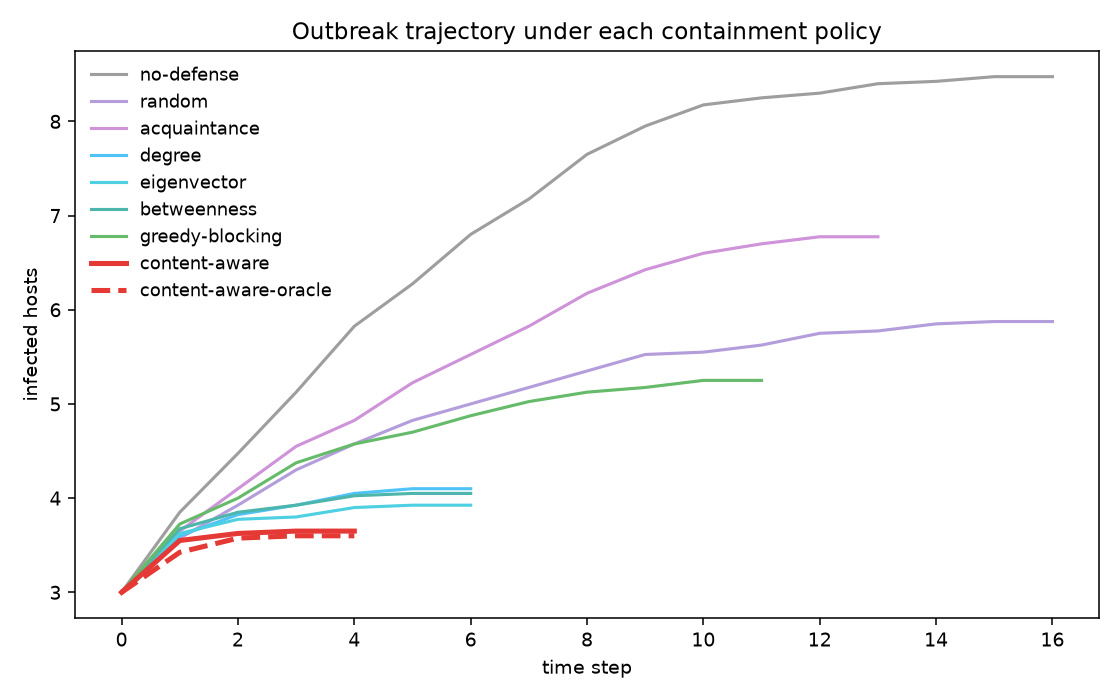
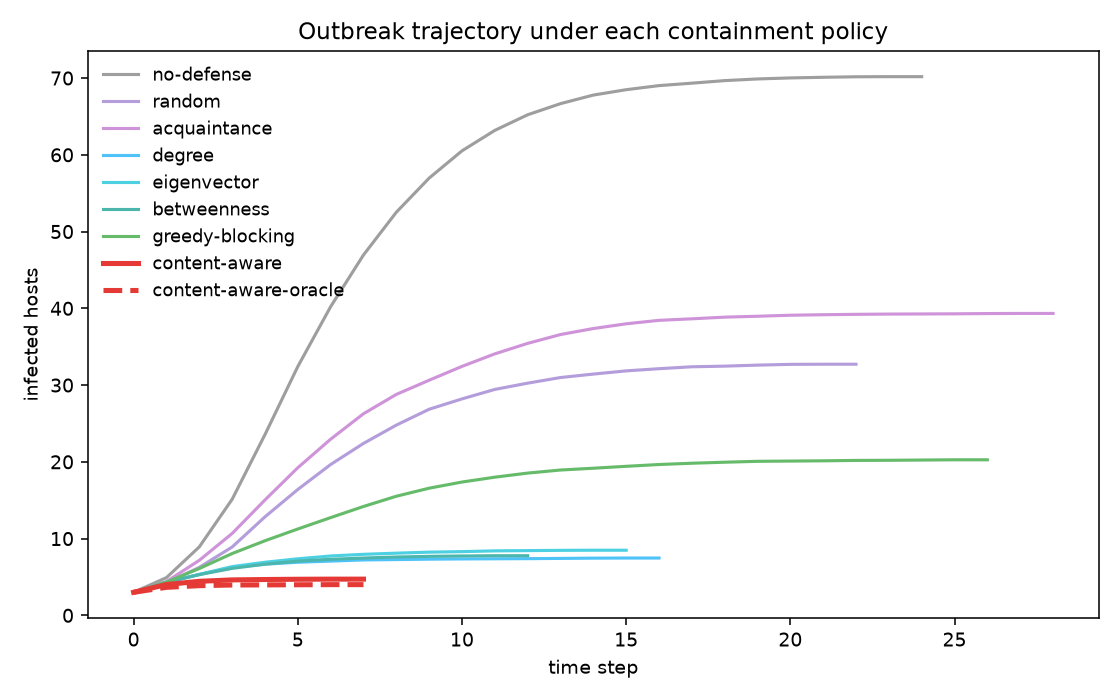
Topology-correlated vulnerability (software monoculture in zones)
Add segment-correlated software assignment: carve the graph into connected
zones (multi-source BFS Voronoi = subnets/VLANs), give each zone a shared
software image, and blend segment vs global software by a `homophily` knob.
A CVE now induces a *connected* vulnerable subgraph -- and the vulnerable zone
need not coincide with the topological hubs, which is exactly where content-
awareness beats structure-only immunization.

Wire homophily/n_segments through generate_real_network, TrialSpec, build_episode.
Fix run_experiment defaults for real data: --strategy band (was stealth), plus
--n-cves/--homophily/--band flags (real defaults: n_cves=40, homophily=0.4).

Real-data result (60 paired outbreaks, real modern CVEs):
- content-aware 0.9% infected vs best fixed baseline (degree) 1.5%:
  -18.6% infection, Wilcoxon p=1.1e-5; availability 98.7% vs 96.9%.
- vs the per-trial ensemble oracle: -6.1%, p=0.006 -- beats even the oracle on
  real data (which it could NOT on synthetic), because real software zones
  diverge from topological centrality.

Tests: segments are connected; homophily raises within-zone software sharing.
15/15 pass.

diff --git a/serum/data/profiles.py b/serum/data/profiles.py
@@ -16,7 +16,7 @@ handle exposing per-CVE ids and betas.
 
 from __future__ import annotations
 
-from collections import Counter
+from collections import Counter, deque
 from dataclasses import dataclass, field
 
 import networkx as nx
@@ -98,31 +98,88 @@ def build_universe(
     )
 
 
+def graph_segments(g: nx.Graph, n_segments: int,
+                   rng: np.random.Generator) -> dict:
+    """Partition the graph into ``n_segments`` *connected* regions via
+    multi-source BFS (a graph Voronoi tessellation from random centres).
+
+    Segments model network zones -- subnets, VLANs, OU/imaging groups -- within
+    which hosts tend to run the same software. Because each region is connected,
+    a shared-software vulnerability induces a connected vulnerable subgraph, so
+    a worm can actually traverse it (the realism the independent model lacked)."""
+    nodes = list(g.nodes())
+    k = max(1, min(n_segments, len(nodes)))
+    centers = [int(x) for x in rng.choice(nodes, size=k, replace=False)]
+    seg: dict = {}
+    dq: deque = deque()
+    for i, c in enumerate(centers):
+        seg[c] = i
+        dq.append(c)
+    while dq:  # simultaneous BFS: nearest centre claims each node
+        u = dq.popleft()
+        for v in g.neighbors(u):
+            if v not in seg:
+                seg[v] = seg[u]
+                dq.append(v)
+    for v in nodes:  # any node in a disconnected fragment: assign at random
+        if v not in seg:
+            seg[v] = int(rng.integers(k))
+    return seg
+
+
 def attach_real_profiles(
     g: nx.Graph,
     universe: RealVulnUniverse,
     products_lambda: float = 6.0,
+    n_segments: int = 12,
+    homophily: float = 0.75,
     rng: np.random.Generator | None = None,
 ) -> nx.Graph:
-    """Assign each host a real-data-derived vulnerability profile in place."""
+    """Assign each host a real-data-derived vulnerability profile in place.
+
+    ``homophily`` in [0, 1] controls software monoculture: a fraction
+    ``homophily`` of a host's products is drawn from its segment's shared
+    software image, the rest sampled independently by global popularity.
+    ``homophily=0`` recovers the fully-independent assignment (an ablation)."""
     rng = rng or np.random.default_rng()
     prod_index = {p: i for i, p in enumerate(universe.products)}
-    # precompute, per CVE, the set of product indices it affects
     cve_prod_idx = [frozenset(prod_index[p] for p in cps) for cps in universe.cve_products]
-
     n_products = len(universe.products)
+
+    seg = graph_segments(g, n_segments, rng)
+    # each segment's shared "software image": a popularity-weighted product set
+    image_size = int(min(n_products, max(products_lambda * 3, products_lambda + 4)))
+    seg_image: dict = {}
+    for s in set(seg.values()):
+        img = rng.choice(n_products, size=image_size, replace=False, p=universe.weights)
+        seg_image[s] = np.asarray(img)
+
     for node in g.nodes():
         k = int(min(n_products, max(1, rng.poisson(products_lambda))))
-        chosen = rng.choice(n_products, size=k, replace=False, p=universe.weights)
-        host_products = frozenset(int(c) for c in chosen)
-        vuln = frozenset(
-            i for i, cpi in enumerate(cve_prod_idx) if host_products & cpi
-        )
+        n_seg = int(round(homophily * k))
+        n_glob = k - n_seg
+        prods: set = set()
+        if n_seg > 0:
+            img = seg_image[seg[node]]
+            take = min(n_seg, len(img))
+            prods.update(int(x) for x in rng.choice(img, size=take, replace=False))
+        # top up (segment image exhausted or the independent remainder)
+        while len(prods) < k:
+            p = int(rng.choice(n_products, p=universe.weights)) if n_glob or not prods \
+                else int(rng.choice(seg_image[seg[node]]))
+            prods.add(p)
+            if len(prods) >= n_products:
+                break
+        host_products = frozenset(prods)
+        vuln = frozenset(i for i, cpi in enumerate(cve_prod_idx) if host_products & cpi)
         g.nodes[node]["vuln"] = vuln
         g.nodes[node]["products"] = host_products
+        g.nodes[node]["segment"] = seg[node]
 
     g.graph["n_cves"] = universe.n_cves
     g.graph["vuln_universe"] = universe
+    g.graph["n_segments"] = len(set(seg.values()))
+    g.graph["homophily"] = homophily
     g.graph["data_source"] = "nvd"
     return g
 
@@ -135,12 +192,16 @@ def generate_real_network(
     n_products: int = 80,
     n_cves: int = 40,
     products_lambda: float = 6.0,
+    n_segments: int = 12,
+    homophily: float = 0.75,
     rng: np.random.Generator | None = None,
 ) -> nx.Graph:
-    """Build a topology and attach NVD-derived vulnerability profiles."""
+    """Build a topology and attach NVD-derived vulnerability profiles with
+    segment-correlated software (monoculture within network zones)."""
     rng = rng or np.random.default_rng()
     g = _base_topology(n, topology, m, rng)
     universe = build_universe(records, n_products=n_products, n_cves=n_cves, rng=rng)
-    attach_real_profiles(g, universe, products_lambda=products_lambda, rng=rng)
+    attach_real_profiles(g, universe, products_lambda=products_lambda,
+                         n_segments=n_segments, homophily=homophily, rng=rng)
     g.graph["topology"] = topology
     return g

diff --git a/tests/test_data.py b/tests/test_data.py
@@ -94,11 +94,42 @@ def test_build_universe_and_profiles_are_valid():
     assert uni.n_cves <= 15
     assert uni.beta.min() >= 0.05 and uni.beta.max() <= 0.5
     g = _base_topology(200, "ba", 3, np.random.default_rng(1))
-    attach_real_profiles(g, uni, rng=np.random.default_rng(2))
+    attach_real_profiles(g, uni, n_segments=8, homophily=0.5, rng=np.random.default_rng(2))
     assert g.graph["n_cves"] == uni.n_cves
-    assert all("vuln" in d for _, d in g.nodes(data=True))
+    assert all("vuln" in d and "segment" in d for _, d in g.nodes(data=True))
     prev = cve_prevalence(g)
     assert prev.min() >= 0.0 and prev.max() <= 1.0
+
+
+def test_segments_are_connected_regions():
+    """Each graph segment must be a connected subgraph (a real network zone)."""
+    import networkx as nx
+    from serum.data.profiles import graph_segments
+    g = _base_topology(300, "ba", 3, np.random.default_rng(4))
+    seg = graph_segments(g, 10, np.random.default_rng(5))
+    assert set(seg) == set(g.nodes())
+    for s in set(seg.values()):
+        members = [n for n, sg in seg.items() if sg == s]
+        assert nx.is_connected(g.subgraph(members)), f"segment {s} not connected"
+
+
+def test_homophily_raises_within_segment_software_sharing():
+    """Higher homophily => neighbours in the same segment share more products."""
+    records = _corpus(80)
+    uni = build_universe(records, n_products=30, n_cves=20, rng=np.random.default_rng(0))
+
+    def mean_shared(hom):
+        g = _base_topology(300, "ba", 3, np.random.default_rng(1))
+        attach_real_profiles(g, uni, n_segments=10, homophily=hom,
+                             rng=np.random.default_rng(2))
+        vals = []
+        for u, v in g.edges():
+            if g.nodes[u]["segment"] == g.nodes[v]["segment"]:
+                a, b = g.nodes[u]["products"], g.nodes[v]["products"]
+                vals.append(len(a & b) / max(1, len(a | b)))
+        return np.mean(vals) if vals else 0.0
+
+    assert mean_shared(0.9) > mean_shared(0.0)
 
 
 def test_generate_real_network_end_to_end():

diff --git a/scripts/run_experiment.py b/scripts/run_experiment.py
@@ -32,7 +32,8 @@ def parse_args():
     p.add_argument("--trials", type=int, default=30)
     p.add_argument("--n", type=int, default=500, help="hosts per network")
     p.add_argument("--topology", default="ba", choices=["ba", "ws", "er", "rgg"])
-    p.add_argument("--strategy", default="stealth", choices=["popular", "stealth", "random"])
+    p.add_argument("--strategy", default="band",
+                   choices=["band", "popular", "stealth", "random"])
     p.add_argument("--beta", type=float, default=0.35)
     p.add_argument("--budget", type=int, default=5)
     p.add_argument("--horizon", type=int, default=40)
@@ -41,6 +42,12 @@ def parse_args():
     p.add_argument("--no-plot", action="store_true")
     p.add_argument("--real", action="store_true",
                    help="use real NVD data (data/clean/cves.csv) instead of synthetic")
+    p.add_argument("--n-cves", type=int, default=-1,
+                   help="CVE universe size (default 40 for --real, 12 synthetic)")
+    p.add_argument("--homophily", type=float, default=-1.0,
+                   help="real-data software monoculture within a zone (default 0.4)")
+    p.add_argument("--band", type=float, nargs=2, default=None,
+                   help="prevalence band lo hi for the target CVE")
     return p.parse_args()
 
 
@@ -117,6 +124,9 @@ def main():
         payload_strategy=args.strategy,
         budget_per_step=args.budget,
         horizon=args.horizon,
+        n_cves=args.n_cves if args.n_cves > 0 else (40 if args.real else 12),
+        homophily=args.homophily if args.homophily >= 0 else 0.4,
+        prev_band=tuple(args.band) if args.band else (0.15, 0.55),
     )
     records = None
     if args.real:

diff --git a/serum/experiments/harness.py b/serum/experiments/harness.py
@@ -44,6 +44,8 @@ class TrialSpec:
     budget_per_step: int = 5
     horizon: int = 40
     n_products: int = 80          # real-data: software-universe size
+    n_segments: int = 12          # real-data: network zones (subnets/VLANs)
+    homophily: float = 0.5        # real-data: software monoculture within a zone
 
 
 def build_episode(spec: TrialSpec, seed: int, records=None):
@@ -60,7 +62,8 @@ def build_episode(spec: TrialSpec, seed: int, records=None):
         from serum.data.profiles import generate_real_network
         g = generate_real_network(
             records, n=spec.n, topology=spec.topology, m=spec.m,
-            n_cves=spec.n_cves, n_products=spec.n_products, rng=gen_rng,
+            n_cves=spec.n_cves, n_products=spec.n_products,
+            n_segments=spec.n_segments, homophily=spec.homophily, rng=gen_rng,
         )
     else:
         g = generate_network(

diff --git a/README.md b/README.md
@@ -82,11 +82,25 @@ python scripts/run_experiment.py --trials 40 --real   # run on real-data network
 - `serum/data/profiles.py` — real CPE-product co-deployment → correlated host
   vulnerabilities; per-CVE transmissibility from CVSS.
 
-**An honest finding this surfaced:** with *independent* software assignment, a
-CVE's vulnerable hosts scatter across the topology, the vulnerable subgraph
-fragments, and worms barely propagate — real fleets spread via **software
-monoculture within network segments**. Modeling that topology-correlated
-vulnerability is the next step (tracked in `docs/RESEARCH.md`).
+Software is assigned with **segment-correlated monoculture**: the graph is carved
+into connected zones (subnets/VLANs) that share a software image (`homophily`
+controls the strength), so a CVE induces a connected vulnerable subgraph — as
+real worms actually spread. Crucially, that vulnerable *zone* need not coincide
+with the topological hubs, which is where content-awareness pays off.
+
+**Real-data result (60 paired outbreaks, real modern CVEs, `results/real/`):**
+
+| Policy | Infected | Availability | Contained @ step |
+|---|---:|---:|---:|
+| no-defense | 14.0% | 100.0% | 10.5 |
+| degree immunization *(best structural)* | 1.5% | 96.9% | 3.1 |
+| **content-aware** | **0.9%** | **98.7%** | **2.0** |
+
+- vs the best fixed baseline: **−18.6% infection, Wilcoxon p = 1.1×10⁻⁵**.
+- vs the per-trial **ensemble oracle**: **−6.1%, p = 0.006** — on real data the
+  content-aware agent beats even the oracle that cherry-picks the best structural
+  heuristic per outbreak (which it *cannot* do on synthetic data), because real
+  software zones genuinely diverge from topological centrality.
 
 ---
 
